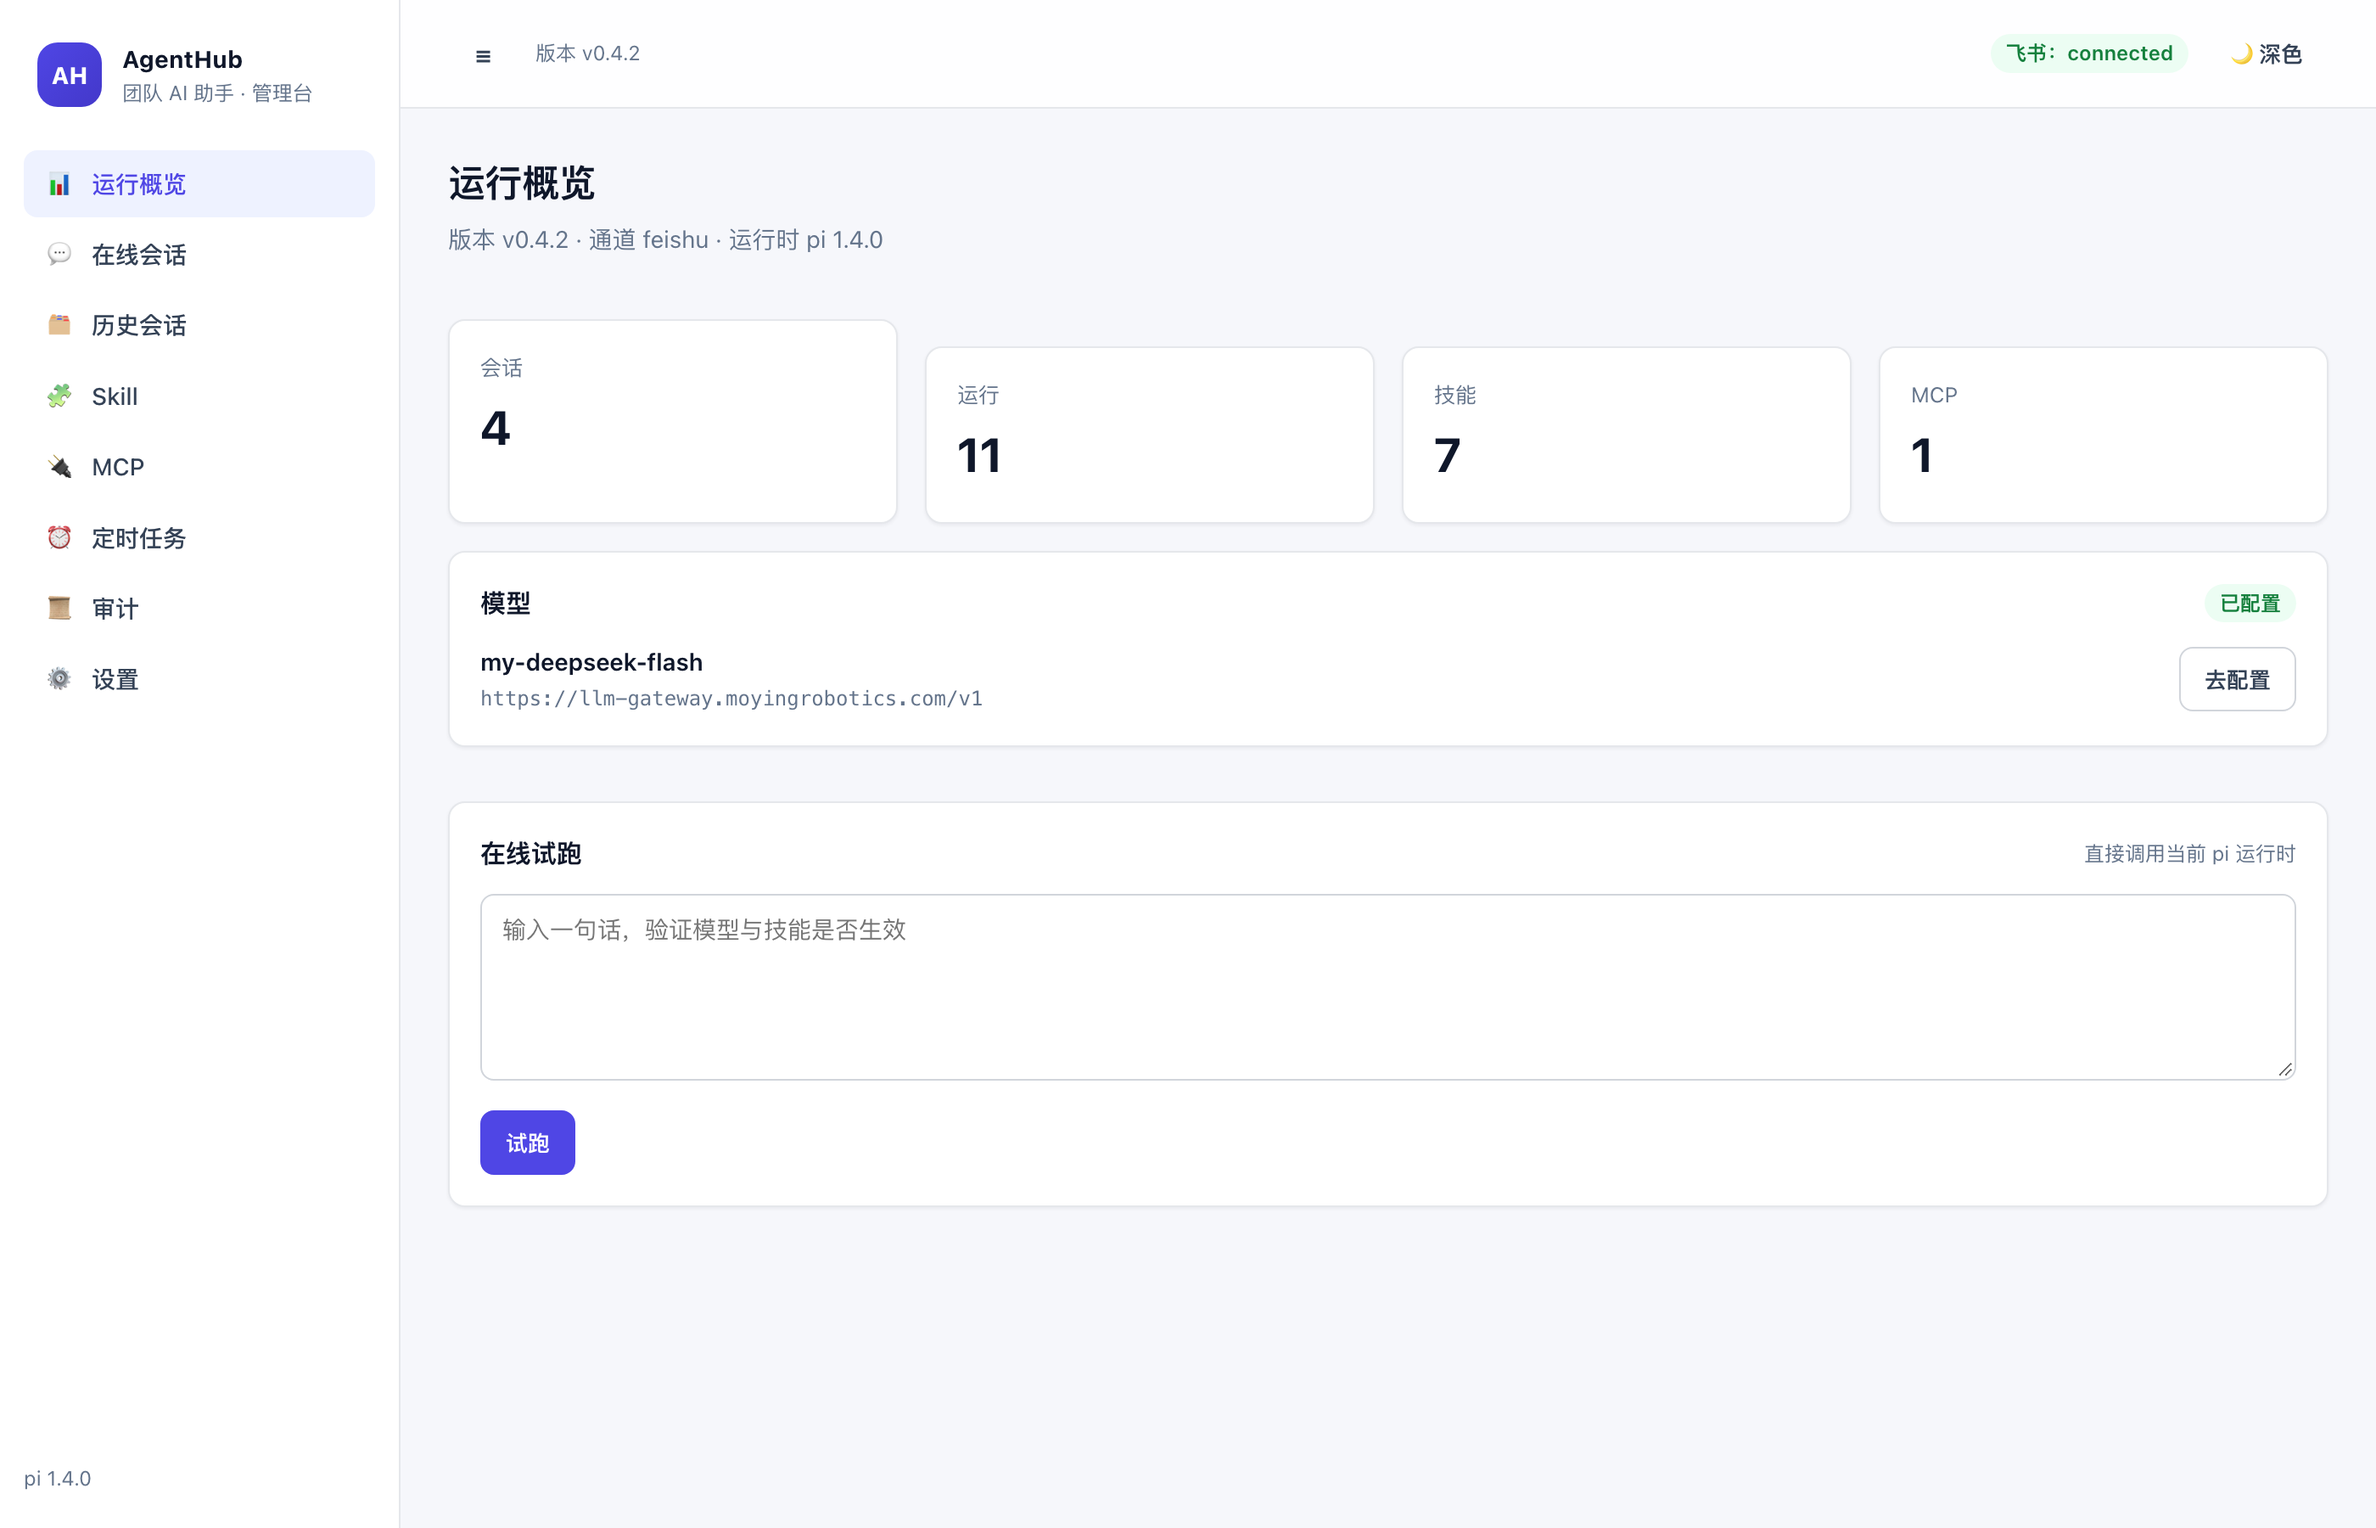
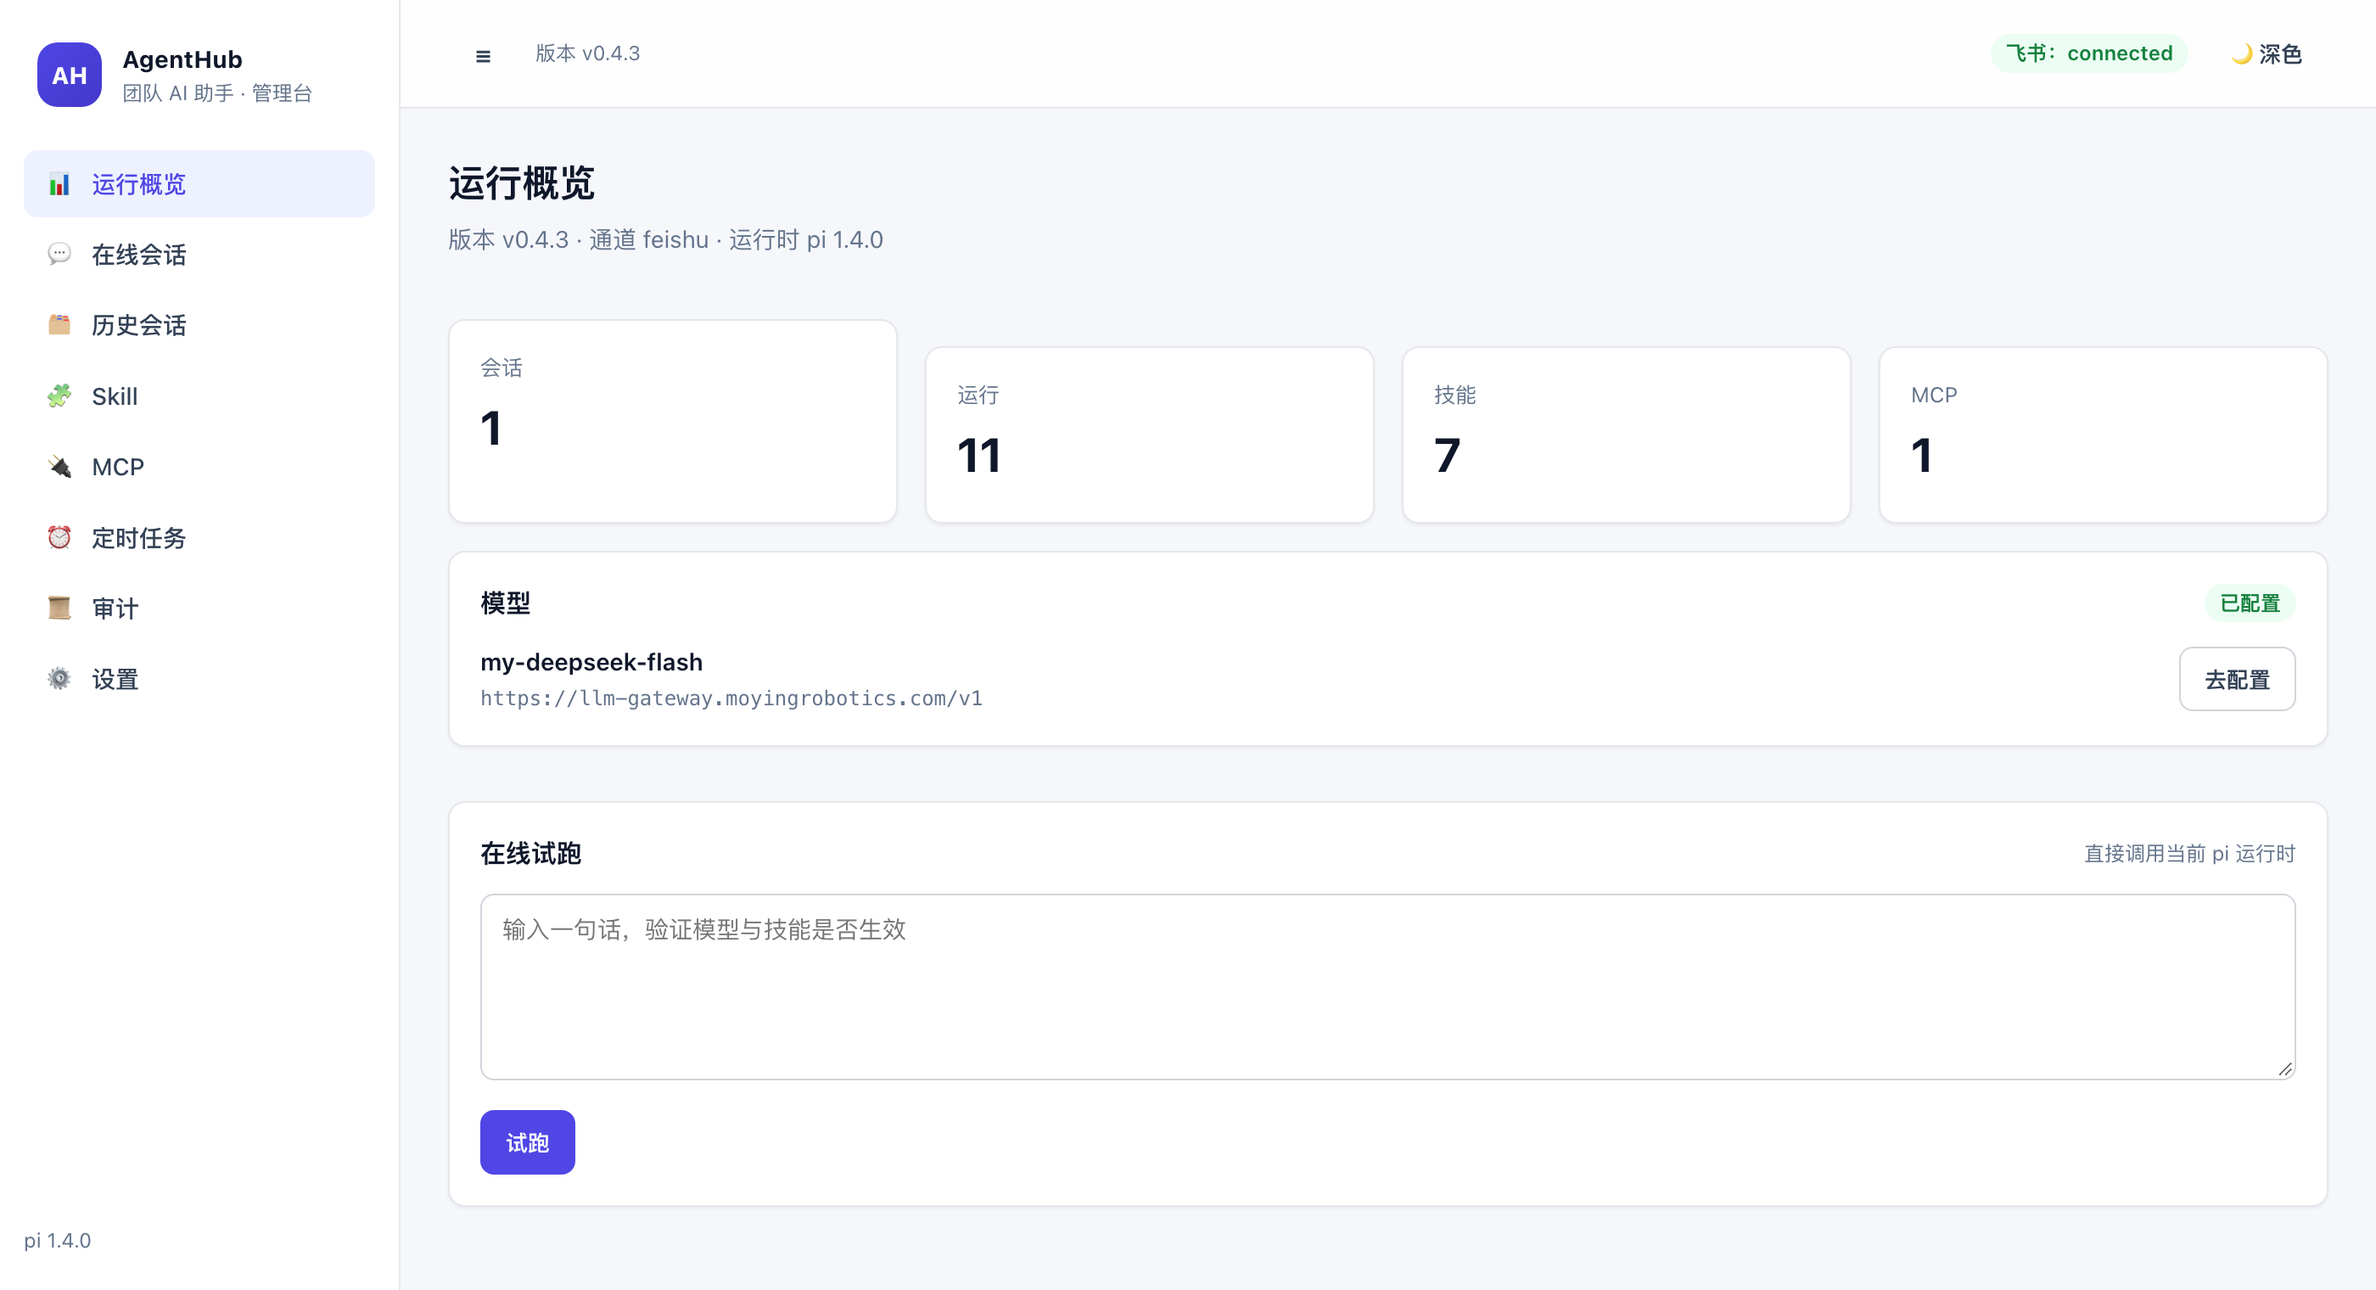
fix: 概览会话数只统计用户会话
- 概览 conversations 改为非 internal 会话数，与在线会话默认视图一致
- 更新概览截图与镜像版本

diff --git a/internal/admin/admin.go b/internal/admin/admin.go
@@ -387,7 +387,12 @@ func (s *Server) handleAudits(rw http.ResponseWriter, r *http.Request) {
 func (s *Server) handleOverview(rw http.ResponseWriter, _ *http.Request) {
 	skills, _ := s.store.ListSkills()
 	mcps, _ := s.store.ListMCPs()
-	convs := s.engine.Conversations()
+	userSessions := 0
+	for _, info := range s.engine.SessionInfos() {
+		if !info.Internal {
+			userSessions++
+		}
+	}
 	runs := s.engine.Runs()
 
 	activeProfile := ""
@@ -410,7 +415,7 @@ func (s *Server) handleOverview(rw http.ResponseWriter, _ *http.Request) {
 			Echo:     s.cfg.Agent.APIKey == "",
 		},
 		"counts": map[string]int{
-			"conversations": len(convs),
+			"conversations": userSessions,
 			"runs":          len(runs),
 			"skills":        len(skills),
 			"mcps":          len(mcps),

diff --git a/README.md b/README.md
@@ -109,8 +109,8 @@ cp .env.example .env
 # 钉钉：AGENTHUB_CHANNEL=dingtalk + DINGTALK_CLIENT_ID / DINGTALK_CLIENT_SECRET
 # 都要：POSTGRES_PASSWORD
 
-AGENTHUB_TAG=0.2.7 docker compose pull
-AGENTHUB_TAG=0.2.7 docker compose up -d
+AGENTHUB_TAG=0.3.0 docker compose pull
+AGENTHUB_TAG=0.3.0 docker compose up -d
 ```
 
 镜像 `donglog/agenthub` 支持 `linux/amd64` 与 `linux/arm64`，打 tag 自动构建发布。
